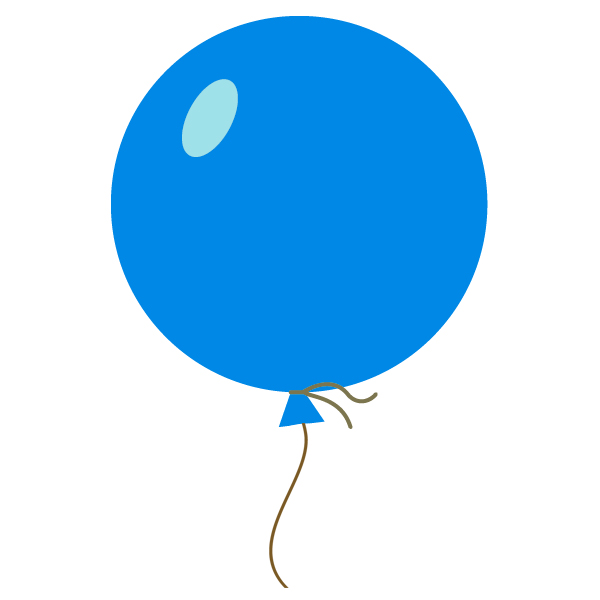
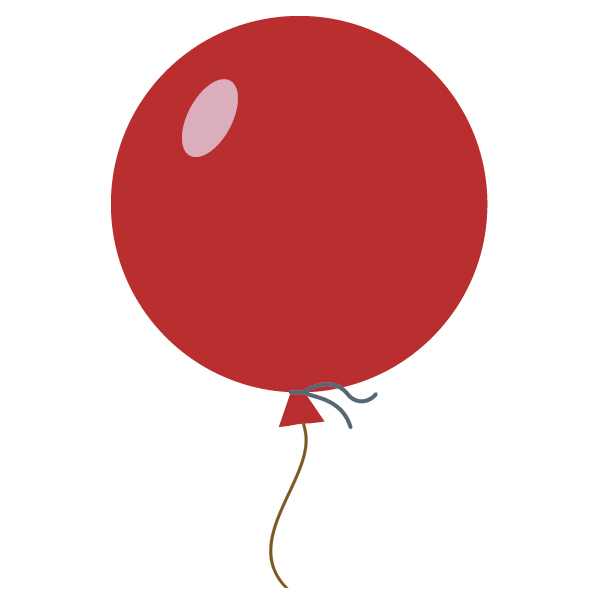
增加测试7结果显示

diff --git a/game7.html b/game7.html
@@ -87,6 +87,17 @@
         var g_BaloonCounter = 5;        //倒计时开始
         var g_BaloonTimeout;            //倒计时器
 
+        var g_resultBallonOK = 0;
+        var g_resultBallonFail = 0;
+        var g_resultCaclOK = 0;
+        var g_resultCaclFail = 0;
+        var g_resultCompareOK = 0;
+        var g_resultCompareFail = 0;
+
+        var g_IsBlue = false;
+        var g_IsCaclRight = false;
+        var g_IsStringSame = false;
+
         function initTips() {
             $("#tip1").html("屏幕上将同时显示3个任务，请尽可能快速准确的同时处理三个区域中显示的任务");
             $("#tip2").html("");
@@ -154,6 +165,10 @@
         }
         
         function readyForNextGame() {
+            showResult();
+
+            $("#tdBalloonTitle").html("测试结束<br/><br/><span style='color: limegreen'> 绿色</span>表示项目答对数目<br/><span style='color: red'> 红色</span>表示项目答错数目");
+
             $("#btnOk").removeAttr("disabled");
             $("#btnOk").html("继续测试");
             $("#btnOk").click(function () {
@@ -170,6 +185,9 @@
         }
 
         function showResult() {
+            $("#btnResultTip").html("气球颜色:<span style='color: limegreen'>" + g_resultBallonOK + "</span>/<span style='color: red'>" + g_resultBallonFail
+            + "</span>&nbsp;公式计算:<span style='color: limegreen;'>" + g_resultCaclOK + "</span>/<span style='color: red' >" + g_resultCaclFail
+                + "</span>&nbsp;字符比较:<span style='color: limegreen'>" + g_resultCompareOK + "</span>/<span style='color: red'>" + g_resultCompareFail + "</span> ");
         }
 
         //倒计时，到达时间后切换
@@ -192,8 +210,10 @@
             var strColor = "";
             if (Math.random() > 0.5) {
                 strColor = "red";
+                g_IsBlue = false;
             } else {
                 strColor = "blue";
+                g_IsBlue = true;
             }
 
             //替换气球图片
@@ -258,8 +278,17 @@
             dispResult += "=";
             if (Math.random() > 0.5) {
                 dispResult += calResutl.toFixed(0);
+                g_IsCaclRight = true;
             } else {
-                dispResult += (calResutl * Math.random()).toFixed(0);
+                var randamResult = (calResutl * Math.random()).toFixed(0);
+                dispResult += randamResult;
+
+                //随机可能还是相同
+                if(randamResult != calResutl.toFixed(0)) {
+                    g_IsCaclRight = false;
+                } else {
+                    g_IsCaclRight = true;
+                }
             }
 
             $("#divCalcResult").html(dispResult);
@@ -282,6 +311,7 @@
             var strRight = "";
             if (Math.random() > 0.6) {
                 strRight = strLeft;
+                g_IsStringSame = true;
             } else {
                 //随机替换一些字符
                 for (var i = 0; i < 5; i++) {
@@ -290,6 +320,13 @@
                     } else {
                         strRight += String.fromCharCode(Math.floor(Math.random() * 26) + "A".charCodeAt(0));
                     }
+                }
+
+                //随机结果可能相同
+                if(strLeft != strRight) {
+                    g_IsStringSame = false;
+                } else {
+                    g_IsStringSame = true;
                 }
             }
 
@@ -305,6 +342,14 @@
         $(function () {
             //绑定数字比较点击按钮
             $("button[id^='btnNumberCompare']").click(function () {
+                //检查用户输入结果
+                if((this.id == "btnNumberCompareSame" && g_IsStringSame)
+                    || (this.id == "btnNumberCompareDiff" && !g_IsStringSame)) {
+                    g_resultCompareOK++;
+                } else {
+                    g_resultCompareFail++;
+                }
+
                 //模拟
                 $("button[id^='btnNumberCompare']").css("background-color", "gray");
                 $("#divnumberleft").html("");
@@ -320,6 +365,14 @@
 
             //绑定竖式计算按钮
             $("button[id^='btnCalcDigital']").click(function () {
+                //检查用户输入结果
+                if((this.id == "btnCalcDigitalOK" && g_IsCaclRight)
+                    || (this.id == "btnCalcDigitalBad" && !g_IsCaclRight)) {
+                    g_resultCaclOK++;
+                } else {
+                    g_resultCaclFail++;
+                }
+
                 //模拟
                 $("button[id^='btnCalcDigital']").css("background-color", "gray");
                 $("#divCalcResult").html("");
@@ -334,6 +387,14 @@
 
             //绑定气球检查按钮
             $("button[id^='btnCheckBaloon']").click(function () {
+                //检查用户输入结果
+               if((this.id == "btnCheckBaloonBlue" && g_IsBlue)
+                   || (this.id == "btnCheckBaloonRed" && !g_IsBlue)) {
+                   g_resultBallonOK++;
+               } else {
+                   g_resultBallonFail++;
+               }
+
                 //检查是否经过5秒
                 if(g_BaloonCounter > 0) {
                     //停止倒计时显示
@@ -449,7 +510,7 @@
 <button id="btnGame3" class="btnGame3" type="button" onclick="">粗加工练习</button>
 <button id="btnGame4" class="btnGame4" type="button" onclick="openGame4()">细加工练习</button>
 
-<button id="btnResultTip" class="btnResultTip" type="button"></button>
+<button id="btnResultTip" class="btnResultTip" type="button" style="color: black"></button>
 <button id="btnOk" class="btnOk" type="button" disabled="disabled" onclick="clickButton()">开始测试</button>
 <button id="btnShowTip" type="button" onclick="showTip()">❓指导语</button>
 <div id="divTip">
